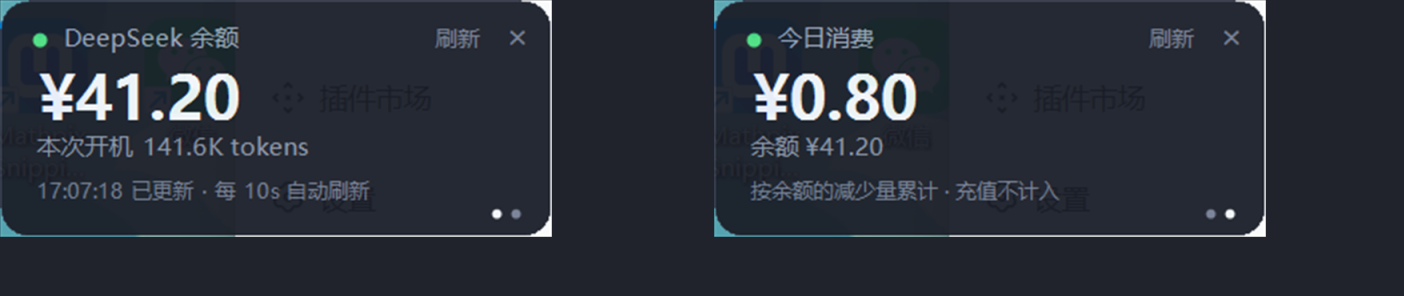
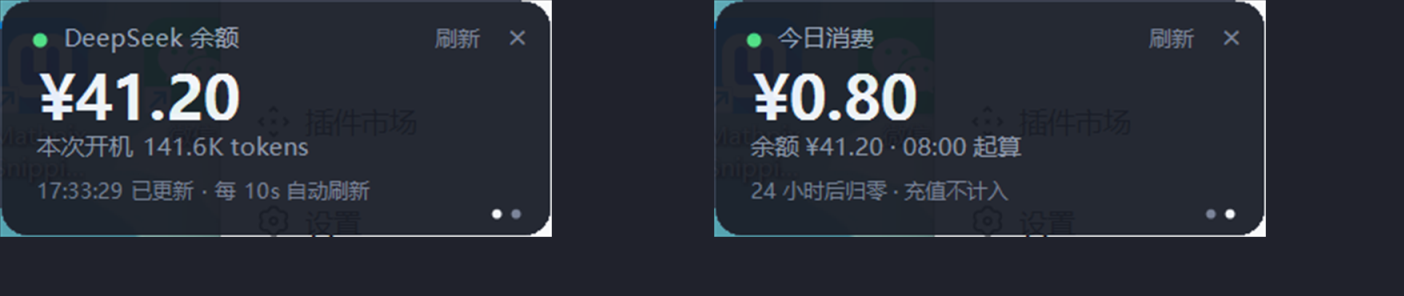
fix: 补上漏传的 -SpendPath（第 2 页卡在「等待取数」），并把一天改成 8 点起算
v0.2.0 里 -SpendPath 只加进了配置对象、忘了加进 buildWindowArgs，宿主于是从不传这个参数，
小窗拿到空路径就永远不记账，第 2 页一直显示「等待取数」；而当时没人断言它，49 个测试全绿。
现在 tests/config.test.mjs 把三个状态文件的开关逐个点名断言，删掉任何一个都会立刻变红
（已用反证验证：actual undefined / expected '...spending.json'）。

按用户要求改口径：「一天」不再是自然日，而是早 8 点到次日 8 点这 24 小时——凌晨连续工作
时 0 点归零会把一夜切成两天。判定统一走新的纯函数 Get-SpendingDayKey，产出同时表示
「哪一天」与「几点起算」的 dayKey，页面上显示「08:00 起算」，起点由 dayStartHour 配（默认 8）。
记账字段 date → dayKey，老文件读不到就当成空串自动从零重开一次，不会接着旧口径算。

小窗侧还加了兜底：-SpendPath 没传时从 StatePath 同目录推出来——漏传一个开关不该让整页静默失效。

顺带修一个自己造的问题：中途用 Get-Content -Raw 读无 BOM 的 config.js，PS 5.1 按 GBK 误读
吃掉了换行，把 const backgroundsDir 并进了注释里。已从 git 恢复并用 ReadAllText 重新落改动。

Changed region(s): [[0.5207, 0.6081, 0.7657, 0.6993], [0.6432, 0.4561, 0.735, 0.5473], [0.0306, 0.6081, 0.0919, 0.6689]]

diff --git a/lib/config.js b/lib/config.js
@@ -29,6 +29,8 @@ export const MAX_REFRESH_SECONDS = 3600
 export const DEFAULTS = {
   enabled: true,
   refreshSeconds: 60,
+  /** 「今日消费」的一天从几点开始（本地时间，0-23）：默认早 8 点，到次日 8 点算新的一天。 */
+  dayStartHour: 8,
   corner: 'top-right',
   theme: 'navy',
   scrim: 'medium',
@@ -104,6 +106,7 @@ export function resolveBalanceConfig(raw, options = {}) {
   return {
     enabled: source.enabled !== false,
     refreshSeconds: clampInt(source.refreshSeconds, DEFAULTS.refreshSeconds, MIN_REFRESH_SECONDS, MAX_REFRESH_SECONDS),
+    dayStartHour: clampInt(source.dayStartHour, DEFAULTS.dayStartHour, 0, 23),
     corner: CORNERS.includes(corner) ? corner : DEFAULTS.corner,
     theme: THEMES.includes(theme) ? theme : DEFAULTS.theme,
     scrim: SCRIMS.includes(scrim) ? scrim : DEFAULTS.scrim,
@@ -164,6 +167,8 @@ export function buildWindowArgs(cfg) {
     '-Scrim', cfg.scrim,
     '-StatePath', cfg.statePath,
     '-UsagePath', cfg.usagePath,
+    '-SpendPath', cfg.spendPath,
+    '-DayStartHour', String(cfg.dayStartHour),
     '-BackgroundDir', cfg.backgroundsDir,
     '-InstanceName', cfg.instanceName,
     '-ParentPid', String(cfg.parentPid),

diff --git a/README.md b/README.md
@@ -10,8 +10,8 @@ DeepSeek API 账户的余额，以及本次开机消耗的 token。**
 ┌──────────────────────────────┐   ┌──────────────────────────────┐
 │ ● DeepSeek 余额     刷新  ×  │   │ ● 今日消费          刷新  ×  │
 │ ¥11.49                       │   │ ¥3.80                        │
-│ 本次开机 141.6K tokens       │   │ 余额 ¥11.49                  │
-│ 09:44:39 已更新 · 每 60s …   │   │ 按余额的减少量累计 · 充值…   │
+│ 本次开机 141.6K tokens       │   │ 余额 ¥11.49 · 08:00 起算     │
+│ 09:44:39 已更新 · 每 60s …   │   │ 24 小时后归零 · 充值不计入   │
 │                          ● ○ │   │                          ○ ● │
 └──────────────────────────────┘   └──────────────────────────────┘
             第 1 页：余额                    第 2 页：今日消费
@@ -150,11 +150,28 @@ DeepSeek 的余额接口**只给「还剩多少钱」，没有任何账单明细
 减少量倒推：每取到一次余额就和上一次比，少了多少就记多少。于是有两条必须说清楚：
 
 - **充值不计入、也不抵扣。** 余额变多时只把基准线抬上去，已经累计的消费额不动；
-- **跨天或换币种一律从零重开。** 于是 DSH 关着的那段时间花掉的钱**不会**被记进来
-  （下次开机第一次取数时，昨天的基准线已经被清掉了）。
+- **换天或换币种一律从零重开。** 于是 DSH 关着的那段时间花掉的钱**不会**被记进来
+  （下次开机第一次取数时，上一天的基准线已经被清掉了）。
 
 也就是说它是个**近似值**，页面上因此直接标了「充值不计入」。记账写在
 `$DSH_HOME/plugins/dsh-api-balance/spending.json`，由小窗独占读写；想手动清零，删掉这个文件即可。
+
+#### 「一天」从早上 8 点开始，24 小时后换新的一天
+
+这里的「今天」**不是自然日**，而是**从早 8 点到次日早 8 点**的那 24 小时——因为凌晨还在写
+代码是常事，按 0 点归零会把一个连续的通宵切成两半。所以：
+
+| 时刻 | 算哪一天 |
+|---|---|
+| 今天 07:59 | 还属于**昨天**那一格 |
+| 今天 08:00 | **新的一天开始**，计数归零 |
+| 今天 23:59 | 与 08:00 同一格 |
+| 次日 02:00 | 仍属于**昨天**那一格 |
+| 次日 08:00 | 再开始新的一天 |
+
+第 2 页那一行会写明起算时刻（「余额 ¥41.20 · **08:00 起算**」），不用你去猜是哪种口径。
+
+想换起点（比如改成自然日、或你习惯的其它整点）见下面的 `dayStartHour`。
 
 ## 关了之后怎么再打开
 
@@ -330,6 +347,7 @@ dsh plugin --profile web install
   config:
     enabled: true
     refreshSeconds: 60      # 10 - 3600，超出会被夹紧
+    dayStartHour: 8         # 「今日消费」的一天从几点开始（0-23，默认 8；填 0 即自然日）
     corner: top-right       # top-right / top-left / bottom-right / bottom-left
     currency: ''            # 留空 = 用接口返回的第一种；可写 CNY / USD
     baseUrl: https://api.deepseek.com
@@ -379,5 +397,6 @@ $env:DSH_API_BALANCE_WINDOW = '1'; npm test   # 真的拉起窗口，4 秒后再
 | 小窗显示「获取失败」 | 网络/代理；余额接口返回体里是否有 `balance_infos` |
 | token 行一直是 0 或「暂无数据」 | `usage.json` 是否存在且 `updatedAt` 在变；没有它说明插件没装上（`dsh --profile web --dump-config` 里应当有 `api-balance` 行） |
 | DSH 退出后小窗还在 | 看门狗依赖 `-ParentPid` 参数，检查插件是否真的传了 `ParentPid` |
-| 今日消费一直是 ¥0.00 | 多半正常：余额没减少就不会有消费。可看 `spending.json` 里的 `lastBalance` 是否与当前余额一致；跨天重启后从零重开也是预期行为 |
+| 今日消费一直是 ¥0.00 | 多半正常：余额没减少就不会有消费。可看 `spending.json` 里的 `lastBalance` 是否与当前余额一致；越过起算时刻后从零重开也是预期行为 |
+| 第 2 页一直是「等待取数」 | 说明一次余额都没记上。看 `spending.json` 有没有生成；若没生成，检查小窗进程命令行里有没有 `-SpendPath`（v0.2.0 漏传过这个参数，症状正是这样，v0.2.1 已修） |
 | 换了新版本但小窗没变 | 小窗是 DSH 启动时拉起的一次性进程，**装完/改完要重启 DSH** 才会跑新代码 |

diff --git a/AGENTS.md b/AGENTS.md
@@ -132,6 +132,10 @@ dsh --profile desktop --dump-config        # 里面应当恰好有一条 id: api
 
 13. **脚本的 `param` 块与 `buildWindowArgs` 必须同步。** 新增参数时两边都要改，
     `tests/config.test.mjs` 会把不一致直接变成测试失败。
+    **状态文件路径尤其要盯住**：v0.2.0 发出去过一个「`-SpendPath` 只加进了配置对象、忘了加进
+    参数数组」的错，后果是「今日消费」整页永远显示「等待取数」，而**所有测试仍然全绿**——
+    因为当时没有任何断言看着它。现在三个状态文件的开关都被逐个点名断言（`-StatePath` /
+    `-UsagePath` / `-SpendPath`），删掉任何一个都会立刻变红（已验证过）。
 14. **主题表与蒙版表在 JS 和 PS 里各有一份，必须一致。** 漏同步会表现为「配置通过了但窗口
     不认识这个名字」——静默回落成默认值，很难查。测试会核对两份清单。
 15. **token 折叠语义必须与 DSH 的 token-meter 保持一致**：`assistant/chunk` 与
@@ -147,7 +151,11 @@ dsh --profile desktop --dump-config        # 里面应当恰好有一条 id: api
     充值不计入、跨天与换币种重开」这套口径写在 `.ps1` 里，Node 侧调不动；
     `tests/window-script.test.mjs` 跑它并断言 `LOGICTEST PASS`。改记账逻辑必须同步改那里的用例。
 18. **今日消费是近似值，不是账单。** 余额接口没有明细，只能按余额减少量倒推：充值不计入、
-    跨天与换币种从零重开、DSH 关着那段时间的花费不记入。任何文案都不能把它说成精确消费额。
+    换天与换币种从零重开、DSH 关着那段时间的花费不记入。任何文案都不能把它说成精确消费额。
+19. **「一天」是「8 点起算的 24 小时」，不是自然日**（起点由 `dayStartHour` 配，默认 8）。
+    判定只认 `Get-SpendingDayKey` 产出的 `dayKey`——它同时表示「哪一天」与「几点起算」，并且
+    要显示在页面上（「08:00 起算」）。**别退回 `yyyy-MM-dd` 自然日**：那会把凌晨连续工作的
+    那一夜按 0 点切成两天，用户看到的数字会莫名其妙减半。
 
 ---
 
